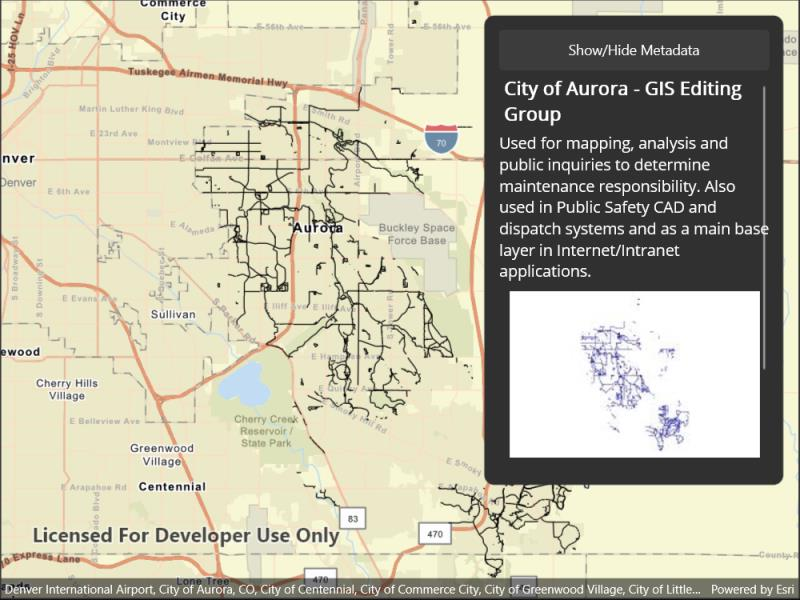
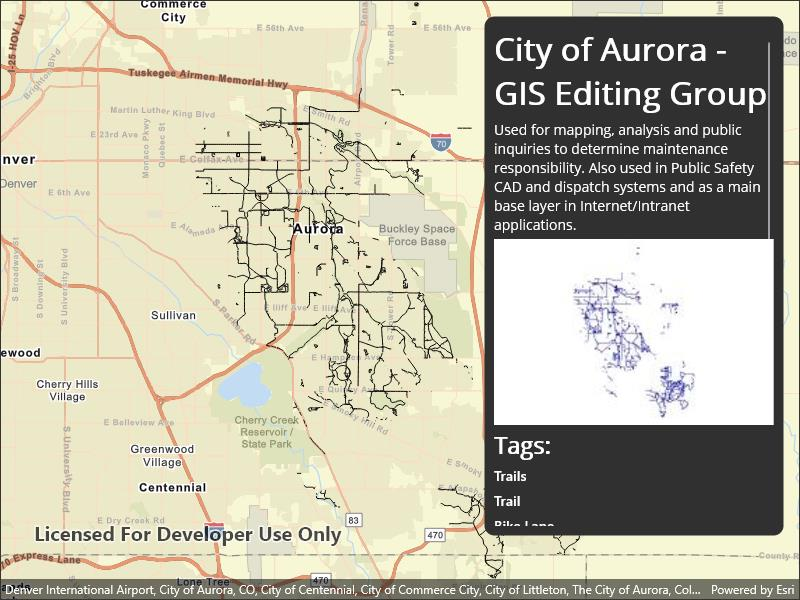
.NET MAUI `ReadShapefileMetadata`: visible metadata (#1326)

diff --git a/src/MAUI/Maui.Samples/Samples/Data/ReadShapefileMetadata/ReadShapefileMetadata.xaml b/src/MAUI/Maui.Samples/Samples/Data/ReadShapefileMetadata/ReadShapefileMetadata.xaml
@@ -5,59 +5,31 @@
              xmlns:esriUI="clr-namespace:Esri.ArcGISRuntime.Maui;assembly=Esri.ArcGISRuntime.Maui">
     <Grid Style="{DynamicResource EsriSampleContainer}">
         <esriUI:MapView x:Name="MyMapView" Style="{DynamicResource EsriSampleGeoView}" />
-        <Border Style="{DynamicResource EsriSampleControlPanel}">
-            <Grid Padding="5">
-                <Grid.RowDefinitions>
-                    <RowDefinition Height="auto" />
-                    <RowDefinition Height="auto" />
-                </Grid.RowDefinitions>
-                <ScrollView x:Name="MetadataScrollView"
-                            Grid.Row="1"
-                            IsVisible="false"
-                            MaximumHeightRequest="400">
-                    <Grid x:Name="InfoGrid">
-                        <Grid.RowDefinitions>
-                            <RowDefinition Height="auto" />
-                            <RowDefinition Height="auto" />
-                            <RowDefinition Height="auto" />
-                            <RowDefinition Height="auto" />
-                        </Grid.RowDefinitions>
-                        <Label Grid.Row="0"
-                               Margin="5"
-                               FontAttributes="Bold"
-                               FontSize="Small"
-                               Text="{Binding Path=Credits}" />
-                        <Label Grid.Row="1"
-                               FontSize="Micro"
-                               LineBreakMode="WordWrap"
-                               Text="{Binding Summary}" />
-                        <Image x:Name="ShapefileThumbnailImage"
-                               Grid.Row="2"
-                               Margin="10" />
-                        <Grid Grid.Row="3">
-                            <Grid.ColumnDefinitions>
-                                <ColumnDefinition Width="auto" />
-                                <ColumnDefinition Width="*" />
-                            </Grid.ColumnDefinitions>
-                            <Label Grid.Column="0"
-                                   Margin="0,3"
-                                   FontAttributes="Bold"
-                                   FontSize="Micro"
-                                   Text="Tags:" />
-                            <ListView Grid.Column="1"
-                                      HeightRequest="120"
-                                      ItemsSource="{Binding Tags}"
-                                      RowHeight="25"
-                                      WidthRequest="160" />
-                        </Grid>
-                    </Grid>
-                </ScrollView>
-                <Button Grid.Row="0"
-                        Clicked="ShowMetadataClicked"
-                        HeightRequest="40"
-                        HorizontalOptions="FillAndExpand"
-                        Text="Show/Hide Metadata" />
-            </Grid>
+        <Border x:Name="ControlPanel" Style="{DynamicResource EsriSampleControlPanel}">
+            <ScrollView MaximumHeightRequest="{OnIdiom Desktop=500, Default={Binding Height, Source=ControlPanel}}" Orientation="{OnPlatform iOS=Both, Default=Vertical}">
+                <StackLayout x:Name="InfoList" Spacing="5">
+                    <Label FontAttributes="Bold"
+                           FontSize="Large"
+                           HorizontalOptions="Start"
+                           LineBreakMode="WordWrap"
+                           MaximumWidthRequest="400"
+                           Text="{Binding Path=Credits}" />
+                    <Label HorizontalOptions="Start"
+                           LineBreakMode="WordWrap"
+                           MaximumWidthRequest="400"
+                           Text="{Binding Summary}" />
+                    <Image x:Name="ShapefileThumbnailImage" HorizontalOptions="Start" />
+                    <Label FontAttributes="Bold"
+                           FontSize="Medium"
+                           HorizontalOptions="Start"
+                           Text="Tags:" />
+                    <ListView HorizontalOptions="Start"
+                              ItemsSource="{Binding Tags}"
+                              MaximumWidthRequest="400"
+                              RowHeight="25"
+                              VerticalScrollBarVisibility="Never" />
+                </StackLayout>
+            </ScrollView>
         </Border>
     </Grid>
 </ContentPage>

diff --git a/src/MAUI/Maui.Samples/Samples/Data/ReadShapefileMetadata/ReadShapefileMetadata.xaml.cs b/src/MAUI/Maui.Samples/Samples/Data/ReadShapefileMetadata/ReadShapefileMetadata.xaml.cs
@@ -26,71 +26,65 @@ namespace ArcGIS.Samples.ReadShapefileMetadata
         {
             InitializeComponent();
 
-            // Open a shapefile stored locally and add it to the map as a feature layer
+            // Open a shapefile stored locally and add it to the map as a feature layer.
             _ = Initialize();
         }
 
         private async Task Initialize()
         {
-            // Create a new map to display in the map view with a streets basemap
-            Map streetMap = new Map(BasemapStyle.ArcGISStreets);
+            // Create a new map to display in the map view with a streets basemap.
+            var streetMap = new Map(BasemapStyle.ArcGISStreets);
 
-            // Get the path to the downloaded shapefile
+            // Get the path to the downloaded shapefile.
             string filepath = GetShapefilePath();
 
             try
             {
-                // Open the shapefile
+                // Open the shapefile.
                 ShapefileFeatureTable myShapefile = await ShapefileFeatureTable.OpenAsync(filepath);
 
-                // Read metadata about the shapefile and display it in the UI
+                // Read metadata about the shapefile and display it in the UI.
                 ShapefileInfo fileInfo = myShapefile.Info;
-                InfoGrid.BindingContext = fileInfo;
+                InfoList.BindingContext = fileInfo;
 
-                // Read the thumbnail image data into a byte array
+                // Read the thumbnail image data into a byte array.
                 Stream imageStream = await fileInfo.Thumbnail.GetEncodedBufferAsync();
                 byte[] imageData = new byte[imageStream.Length];
                 imageStream.Read(imageData, 0, imageData.Length);
 
-                // Create a new image source from the thumbnail data
+                // Create a new image source from the thumbnail data.
                 ImageSource streamImageSource = ImageSource.FromStream(() => new MemoryStream(imageData));
 
-                // Create a new image to display the thumbnail
-                Image image = new Image()
+                // Create a new image to display the thumbnail.
+                var image = new Image()
                 {
                     Source = streamImageSource,
                     Margin = new Thickness(10)
                 };
 
-                // Show the thumbnail image in a UI control
+                // Show the thumbnail image in a UI control.
                 ShapefileThumbnailImage.Source = image.Source;
 
-                // Create a feature layer to display the shapefile
-                FeatureLayer newFeatureLayer = new FeatureLayer(myShapefile);
+                // Create a feature layer to display the shapefile.
+                var newFeatureLayer = new FeatureLayer(myShapefile);
                 await newFeatureLayer.LoadAsync();
 
-                // Zoom the map to the extent of the shapefile
+                // Zoom the map to the extent of the shapefile.
                 MyMapView.SpatialReferenceChanged += async (s, e) =>
                 {
                     await MyMapView.SetViewpointGeometryAsync(newFeatureLayer.FullExtent);
                 };
 
-                // Add the feature layer to the map
+                // Add the feature layer to the map.
                 streetMap.OperationalLayers.Add(newFeatureLayer);
 
-                // Show the map in the MapView
+                // Show the map in the MapView.
                 MyMapView.Map = streetMap;
             }
             catch (Exception e)
             {
                 await Application.Current.MainPage.DisplayAlert("Error", e.ToString(), "OK");
             }
-        }
-
-        private void ShowMetadataClicked(object sender, System.EventArgs e)
-        {
-            // Toggle the visibility of the metadata panel
-            MetadataScrollView.IsVisible = !MetadataScrollView.IsVisible;
         }
 
         private static string GetShapefilePath()
